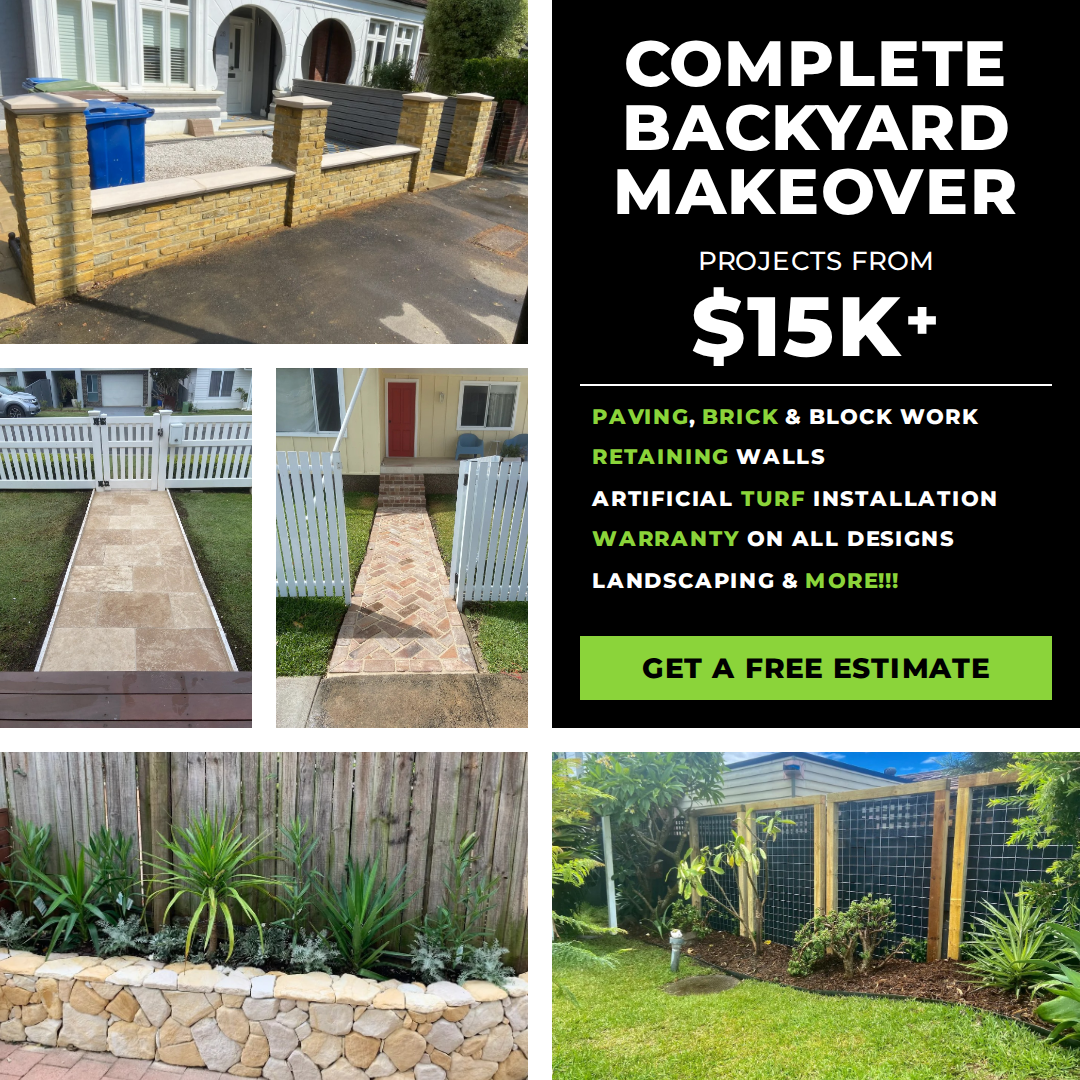
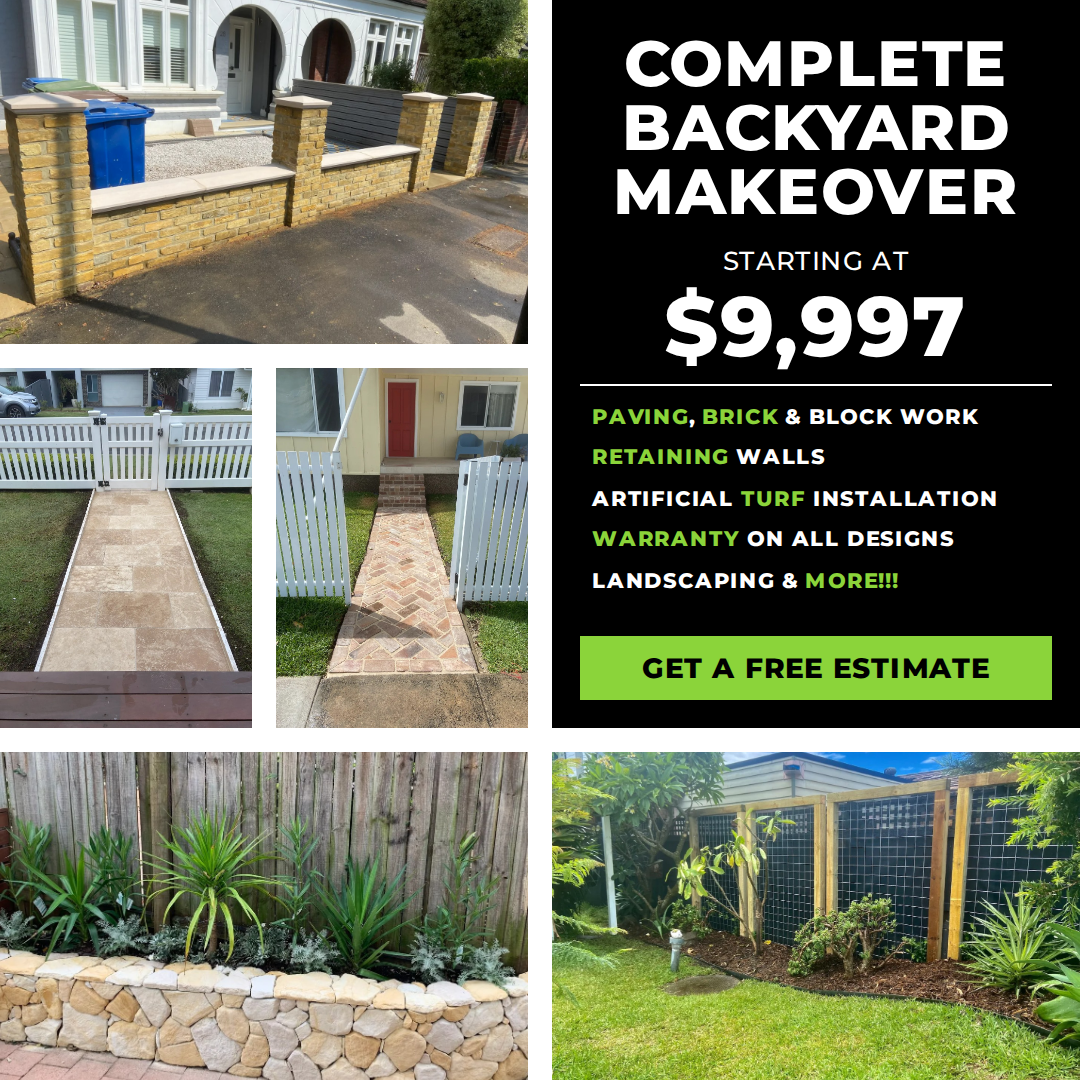
Change ad price to starting at $9,997
Claude-Session: https://claude.ai/code/session_01Kp3iAUfScQwAQYUi1SKLzt

Changed region(s): [[0.6111, 0.2139, 0.8861, 0.3361]]

diff --git a/ad/ad.html b/ad/ad.html
@@ -64,8 +64,8 @@
     <div class="photo p1"></div>
     <div class="panel">
       <h1><span class="fit">Complete</span><span class="fit">Backyard</span><span class="fit">Makeover</span></h1>
-      <div class="sub">Projects from</div>
-      <div class="price">$15K<small>+</small></div>
+      <div class="sub">Starting at</div>
+      <div class="price">$9,997</div>
       <div class="rule"></div>
       <ul>
         <li><span class="g">Paving</span>, <span class="g">brick</span> &amp; block work</li>
